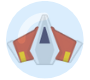
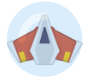
added spaceship powerup

diff --git a/MainV2.py b/MainV2.py
@@ -37,7 +37,7 @@ score = 0
 laser_interval = 1000
 laser_fire = False
 laser_timer = 0
-meteor_time = 600
+meteor_time = 250
 inc_difficulty = True
 
 # User events
@@ -55,7 +55,7 @@ powerup_grp = pygame.sprite.Group()
 
 
 class SpaceShip(pygame.sprite.Sprite):
-    def __init__(self, img_path, img_path2, img_path3, x_pos, y_pos) -> None:
+    def __init__(self, img_path, img_path2, img_path3, img_path4, x_pos, y_pos) -> None:
         super().__init__()
         self.charged = pygame.image.load(img_path2)
         self.uncharged = pygame.image.load(img_path)
@@ -63,7 +63,9 @@ class SpaceShip(pygame.sprite.Sprite):
         self.rect = self.image.get_rect(center=(x_pos, y_pos))
         self.health = 5
         self.meteors_destroyed = 0
-        self.spaceship_bubble = pygame.image.load(img_path3)
+        self.spaceship_bubble_uncharged = pygame.image.load(img_path3)
+        self.spaceship_bubble_charged = pygame.image.load(img_path4)
+        self.activated = False
 
     def update(self):
         self.rect.center = pygame.mouse.get_pos()
@@ -90,13 +92,16 @@ class SpaceShip(pygame.sprite.Sprite):
             screen.blit(health_img, (index * 40 + 10, 10))
 
     def charger(self):
-        self.image = self.charged
+        if self.activated == False:
+            self.image = self.charged
+        else:
+            self.image = self.spaceship_bubble_charged
 
     def uncharger(self):
-        self.image = self.uncharged
-
-    def bubble_powerup(self):
-        self.image = self.spaceship_bubble
+        if self.activated == False:
+            self.image = self.uncharged
+        else:
+            self.image = self.spaceship_bubble_uncharged
 
     def damage(self):
         self.health -= 1
@@ -137,7 +142,12 @@ class Laser(pygame.sprite.Sprite):
 
 
 spaceship = SpaceShip(
-    "spaceship.png", "spaceship_charged.png", "spaceship_bubbled.png", 100, 100
+    "spaceship.png",
+    "spaceship_charged.png",
+    "spaceship_bubbled.png",
+    "spaceship_bubbled_charged.png",
+    100,
+    100,
 )
 spaceship_grp = pygame.sprite.GroupSingle()
 spaceship_grp.add(spaceship)
@@ -200,9 +210,17 @@ def activate_spaceship_powerup():
     if spaceship_act == False:
         powerup2 = powerup2_activated
         spaceship_act = True
-    elif spaceship_act == True:
+        pygame.time.set_timer(spaceship_deactivation_event, 5000)
+        spaceship_grp.sprite.activated = True
+
+
+def deactivate_spaceship_powerup():
+    global spaceship_act, powerup2, powerup2_deactivated
+    if spaceship_act == True:
         powerup2 = powerup2_deactivated
         spaceship_act = False
+        spaceship_grp.sprite.activated = False
+
 
 
 # Powerups Images
@@ -240,11 +258,13 @@ def meteor_gen():
 
 def main_logic():
     global laser_fire, laser_interval
-    if pygame.sprite.spritecollide(spaceship_grp.sprite, meteor_grp, dokill=True):
-        spaceship_grp.sprite.damage()
-        meteor_hit.play()
     if pygame.sprite.groupcollide(laser_grp, meteor_grp, True, True):
         spaceship_grp.sprite.meteors_destroyed += 1
+    if spaceship_grp.sprite.activated == True and pygame.sprite.spritecollide(spaceship_grp.sprite, meteor_grp, True):
+        meteor_hit.play()
+    elif spaceship_grp.sprite.activated == False and pygame.sprite.spritecollide(spaceship_grp.sprite, meteor_grp, dokill=True):
+        spaceship_grp.sprite.damage()
+        meteor_hit.play()
 
     laser_grp.draw(screen)
     spaceship_grp.draw(screen)
@@ -323,11 +343,13 @@ while run:
         if events.type == meteor_deactivation_event:
             deactivate_meteor_powerup()
             inc_difficulty = True
-        # increasing difficulty
-        if events.type == time_event and inc_difficulty == True:
-            meteor_time -= 10
-        if meteor_time <= 250:
-            meteor_time = 250
+        if events.type == spaceship_deactivation_event:
+            deactivate_spaceship_powerup()
+        # increasing difficulty ==> it's not working
+        # if events.type == time_event and inc_difficulty == True:
+        #     meteor_time -= 10
+        # if meteor_time <= 250:
+        #     meteor_time = 250
         if events.type == pygame.MOUSEBUTTONDOWN and laser_fire:
             laser = Laser("Laser.png", events.pos)
             laser_grp.add(laser)
@@ -342,5 +364,5 @@ while run:
             score = 0
             spaceship_grp.sprite.meteors_destroyed = 0
             meteor_time = 250
-    print(meteor_time)
+    # print(meteor_time)
     pygame.display.update()

diff --git a/test1.py b/test1.py
@@ -1,12 +1,23 @@
-from time import sleep
+import pygame
+pygame.init()
+screen = pygame.display.set_mode((128, 128))
+clock = pygame.time.Clock()
 
-a = input(">")
-b = input(">")
+counter, text = 10, '10'.rjust(3)
+pygame.time.set_timer(pygame.USEREVENT, 1000)
+font = pygame.font.SysFont('Consolas', 30)
 
-
-def add(a, b):
-    return a + b
-
-
-print(add(a, b))
-time.sleep(3)
+while True:
+    for e in pygame.event.get():
+        if e.type == pygame.USEREVENT:
+            counter -= 1
+            text = str(counter).rjust(3) if counter > 0 else 'boom!'
+        if e.type == pygame.QUIT:
+            break
+    else:
+        screen.fill((255, 255, 255))
+        screen.blit(font.render(text, True, (0, 0, 0)), (32, 48))
+        pygame.display.flip()
+        clock.tick(60)
+        continue
+    break
